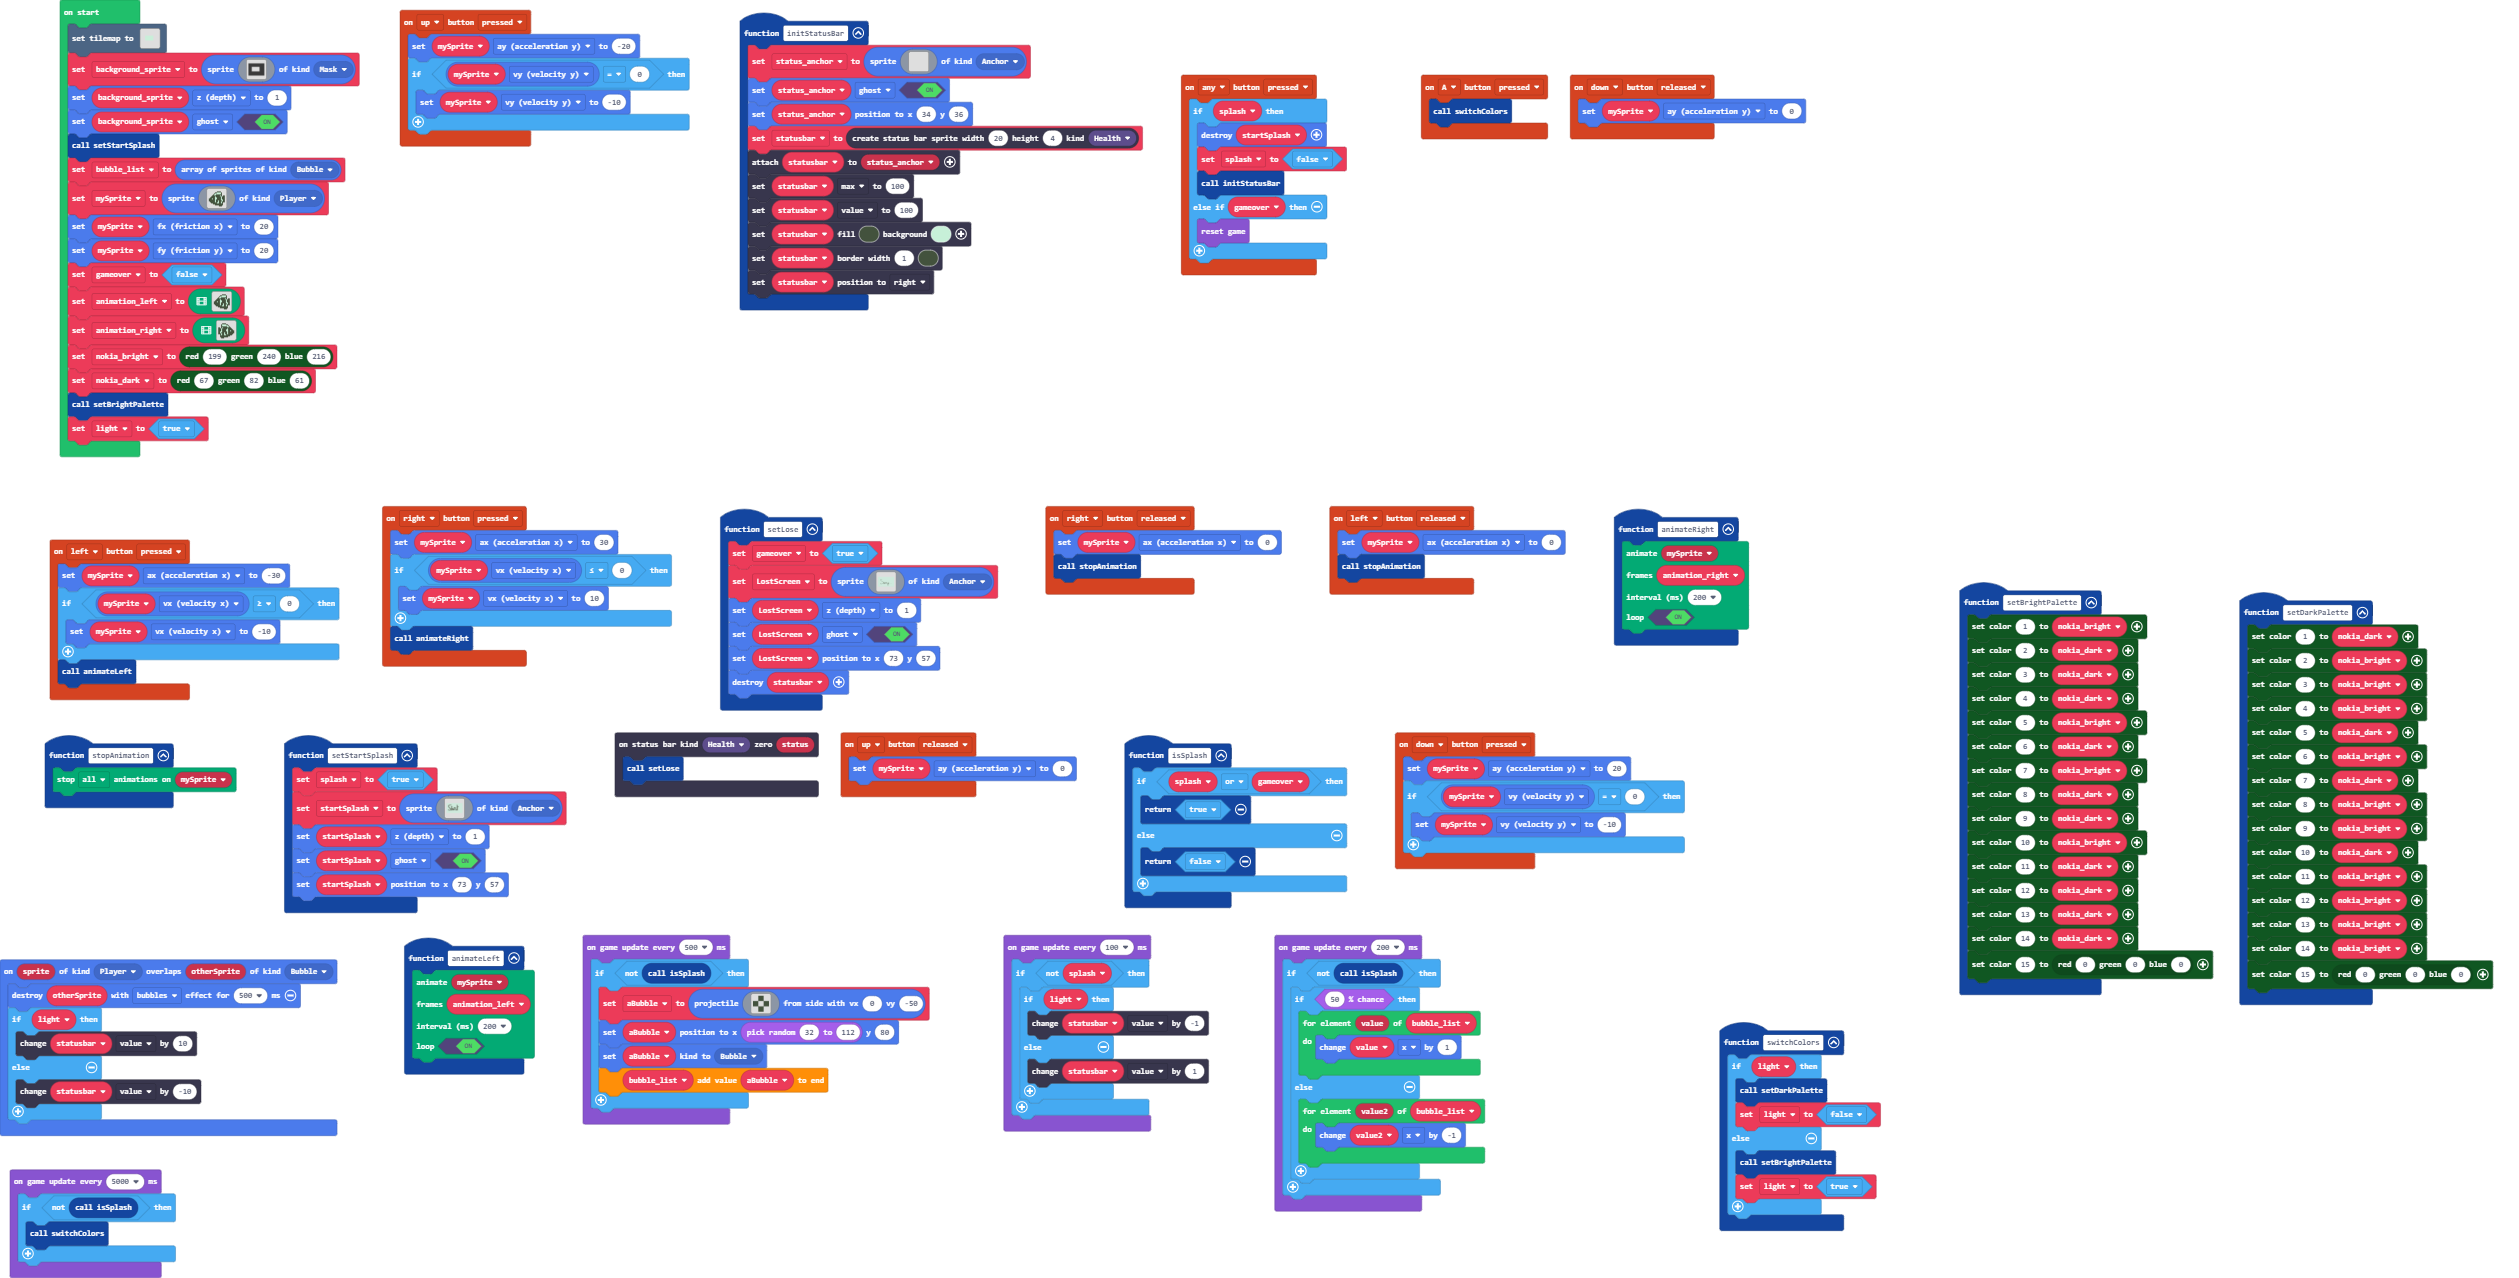
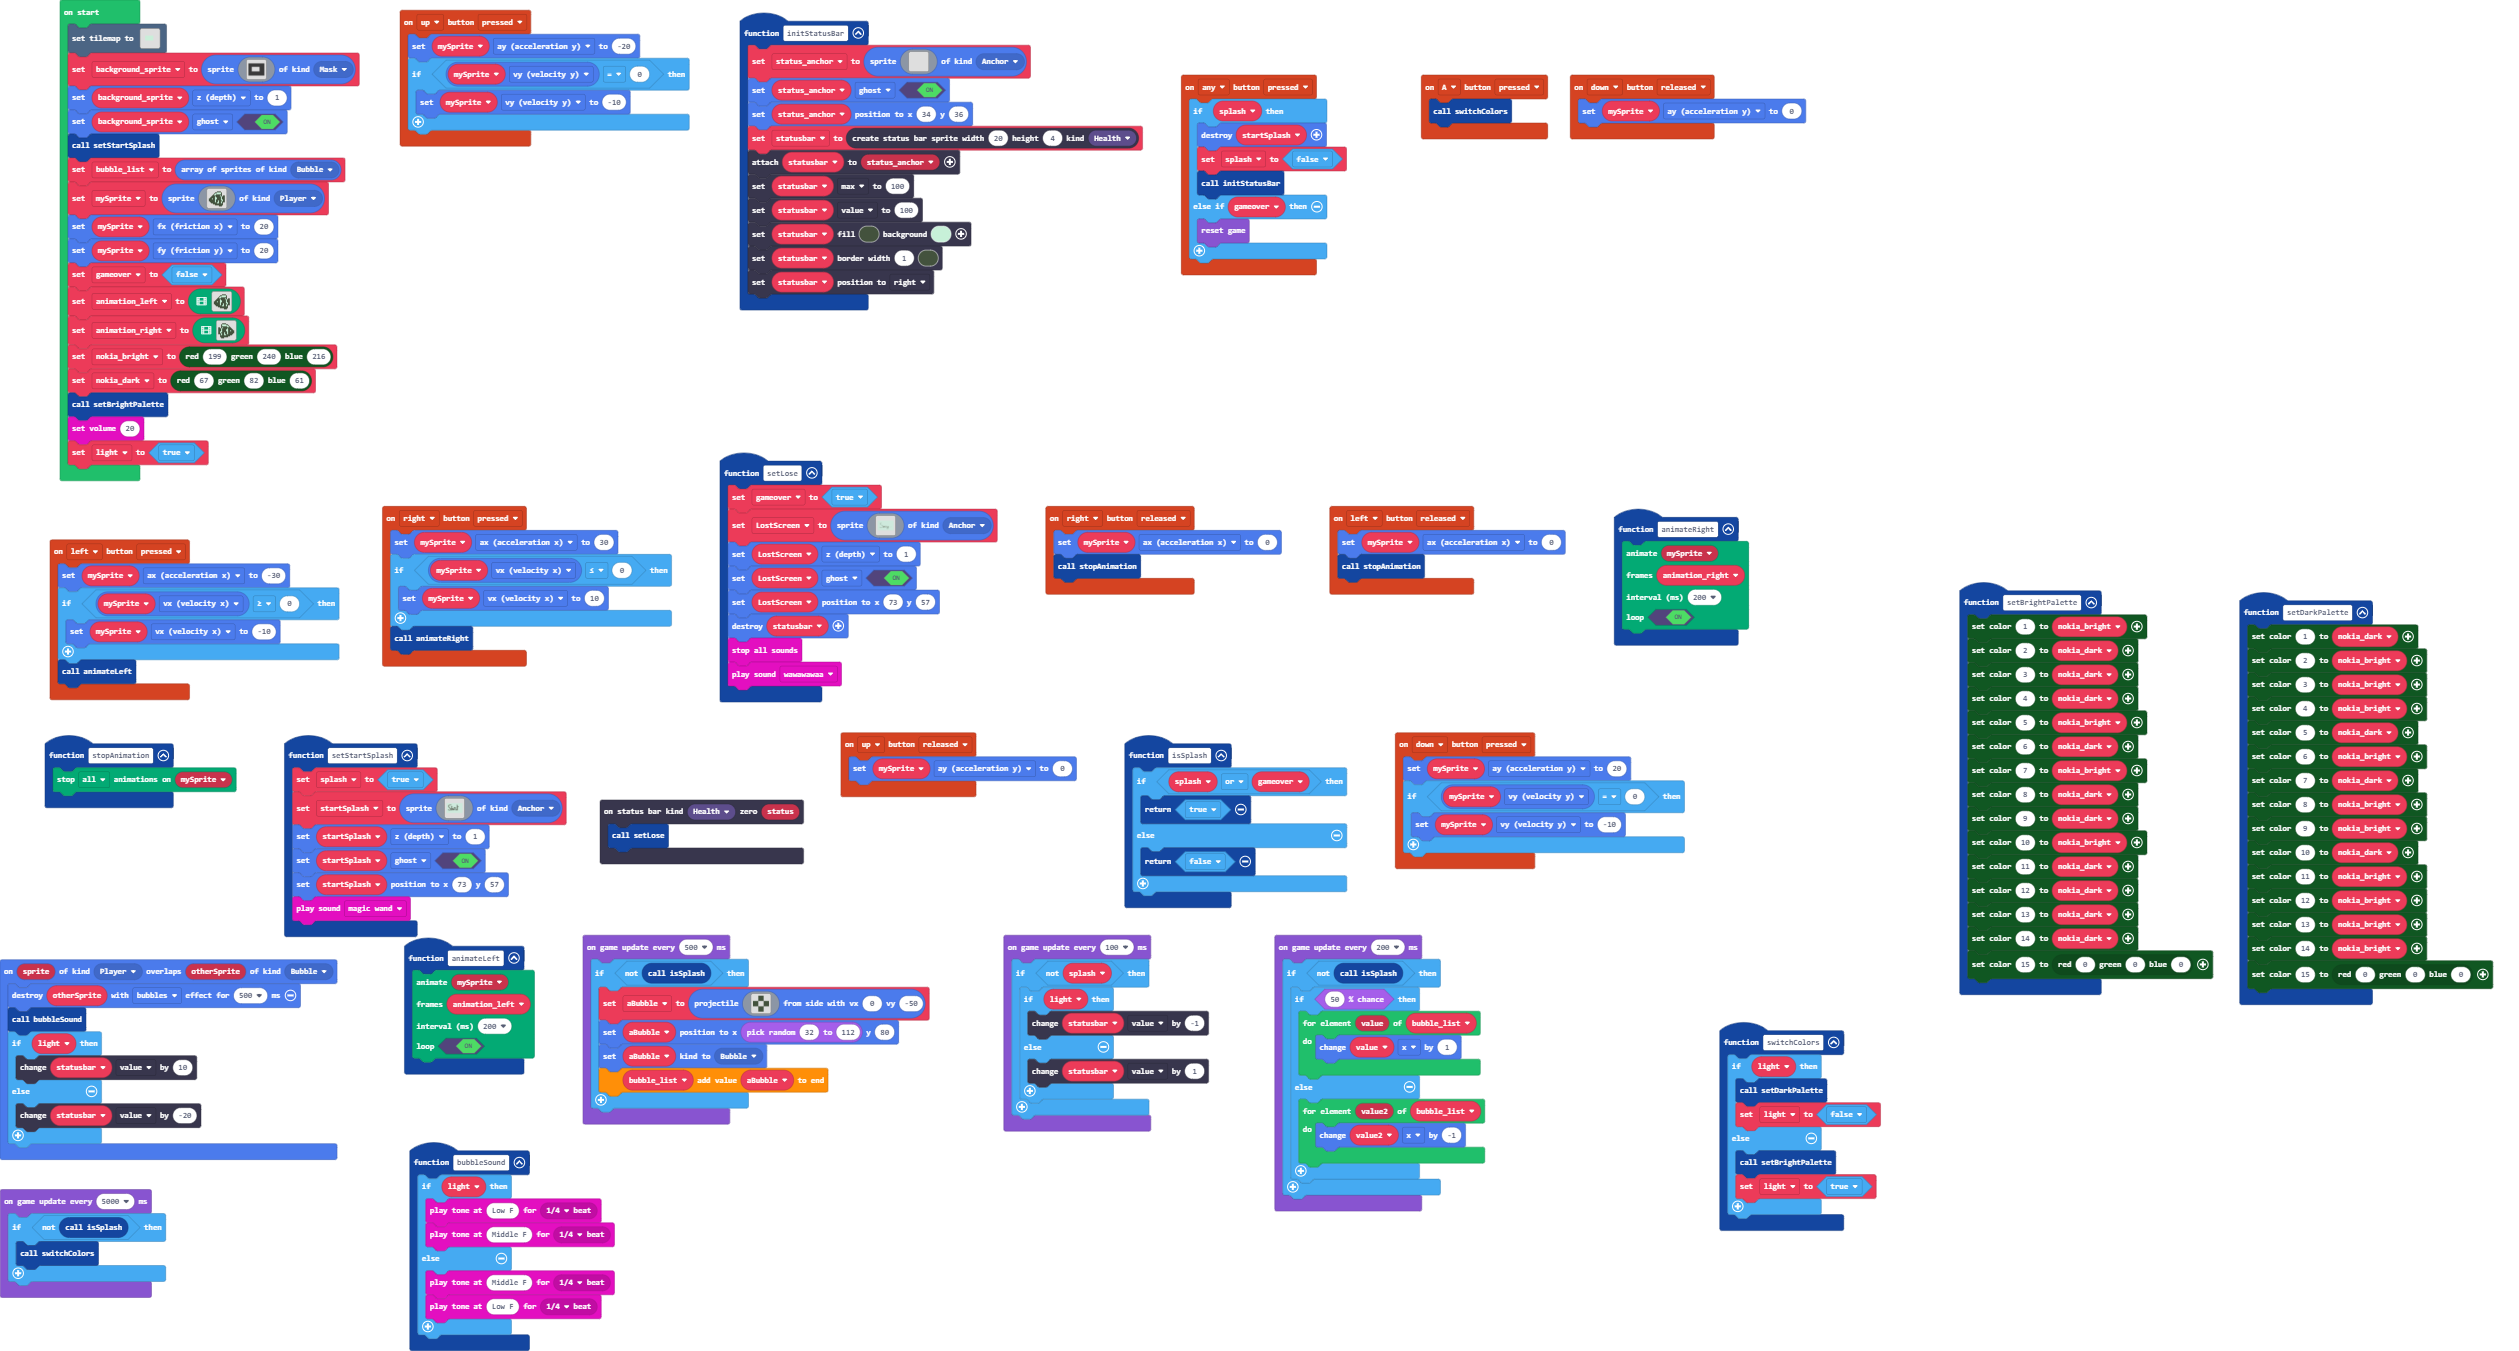
Add sounds

diff --git a/main.ts b/main.ts
@@ -50,6 +50,15 @@ controller.anyButton.onEvent(ControllerButtonEvent.Pressed, function () {
         game.reset()
     }
 })
+function bubbleSound () {
+    if (light2) {
+        music.playTone(175, music.beat(BeatFraction.Quarter))
+        music.playTone(349, music.beat(BeatFraction.Quarter))
+    } else {
+        music.playTone(349, music.beat(BeatFraction.Quarter))
+        music.playTone(175, music.beat(BeatFraction.Quarter))
+    }
+}
 controller.A.onEvent(ControllerButtonEvent.Pressed, function () {
     switchColors()
 })
@@ -154,6 +163,7 @@ function setStartSplash () {
     startSplash.z = 1
     startSplash.setFlag(SpriteFlag.Ghost, true)
     startSplash.setPosition(73, 57)
+    music.magicWand.play()
 }
 statusbars.onZero(StatusBarKind.Health, function (status) {
     setLose()
@@ -192,10 +202,11 @@ function switchColors () {
 }
 sprites.onOverlap(SpriteKind.Player, SpriteKind.Bubble, function (sprite, otherSprite) {
     otherSprite.destroy(effects.bubbles, 500)
+    bubbleSound()
     if (light2) {
         statusbar.value += 10
     } else {
-        statusbar.value += -10
+        statusbar.value += -20
     }
 })
 function setLose () {
@@ -254,6 +265,8 @@ function setLose () {
     LostScreen.setFlag(SpriteFlag.Ghost, true)
     LostScreen.setPosition(73, 57)
     statusbar.destroy()
+    music.stopAllSounds()
+    music.wawawawaa.play()
 }
 function animateLeft () {
     animation.runImageAnimation(
@@ -412,6 +425,7 @@ animation_right = assets.animation`animate_right`
 nokia_bright = color.__rgb(199, 240, 216)
 nokia_dark = color.__rgb(67, 82, 61)
 setBrightPalette()
+music.setVolume(20)
 light2 = true
 game.onUpdateInterval(5000, function () {
     if (!(isSplash())) {
